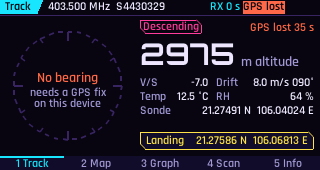
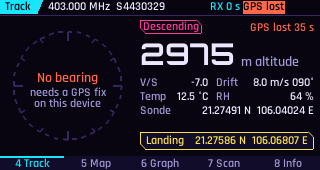
feat(keys): hold an arrow key to keep tuning; arrow glyphs in the hints
- a held arrow repeats after 0.4 s, 12 times a second, generated by the app
  (the keypad driver may not auto-repeat); repeats only tune the spectrum
- the spectrum hints draw arrow keys instead of L/R and U/D
- the demo band overview stays up with its cursor, like the real sweep
- sc_render links keys.c again (the Esc countdown needs it); screenshots
  regenerated, map shots kept (they need preloaded tiles)

Claude-Session: https://claude.ai/code/session_01NC5LhUc5V3FGkxE6anuYHf

diff --git a/tests/test_core.c b/tests/test_core.c
@@ -1,5 +1,8 @@
 #define _GNU_SOURCE
 #include "../src/sc.h"
+#include "../src/ui.h"
+#include <fcntl.h>
+#include <linux/input.h>
 #include <math.h>
 #include <signal.h>
 #include <sys/prctl.h>
@@ -315,6 +318,42 @@ static void t_dsp(void)
     for (off = 0, nb = 0; off < sizeof iq; off += 38)
         nb += ddc_process(&d2, iq + off, off + 38 <= sizeof iq ? 38 : sizeof iq - off, b + 2 * nb);
     CHECK(nb == na && !memcmp(a, b, na * 2 * sizeof a[0]));
+}
+
+/* Held arrow keys repeat (after 0.4 s, every 0.08 s) until released; other keys act once. */
+static void t_keys(void)
+{
+    int p[2], k, n = 0;
+    double t0;
+    struct input_event ev;
+    CHECK(pipe(p) == 0);
+    fcntl(p[0], F_SETFL, O_NONBLOCK);
+    memset(&ev, 0, sizeof ev);
+#define KEV(c, v) (ev.type = EV_KEY, ev.code = (c), ev.value = (v), write(p[1], &ev, sizeof ev) == (ssize_t)sizeof ev)
+    CHECK(KEV(KEY_RIGHT, 1));
+    CHECK(keys_read(p[0]) == K_RIGHT);
+    CHECK(keys_read(p[0]) == 0); /* no repeat before the delay */
+    t0 = sc_now();
+    while (sc_now() - t0 < 1.0) {
+        if ((k = keys_read(p[0])) != 0) {
+            CHECK(k == (K_RIGHT | K_REPEAT));
+            n++;
+        }
+        usleep(5000);
+    }
+    CHECK(n >= 6 && n <= 9); /* (1.0 - 0.4) / 0.08 = 7.5 */
+    CHECK(KEV(KEY_RIGHT, 2)); /* the kernel's own auto-repeat is ignored */
+    CHECK(KEV(KEY_RIGHT, 0));
+    CHECK(keys_read(p[0]) == 0);
+    usleep(200000);
+    CHECK(keys_read(p[0]) == 0); /* released: no more repeats */
+    CHECK(KEV(KEY_S, 1));
+    CHECK(keys_read(p[0]) == 's');
+    usleep(500000);
+    CHECK(keys_read(p[0]) == 0);
+#undef KEV
+    close(p[0]);
+    close(p[1]);
 }
 
 /* Radio audio: FM at the DDC's +12 kHz comes out as its modulating tone; an empty channel is squelched. */
@@ -763,6 +802,7 @@ int main(int argc, char **argv)
     t_ring();
     t_dsp();
     t_fm();
+    t_keys();
     t_frames();
     t_feed();
     t_track();

diff --git a/src/ui.c b/src/ui.c
@@ -768,10 +768,24 @@ static void p_flight(void)
 }
 
 /* ---------------- 7 Scan ---------------- */
+/* Arrow key glyph centred on (x, y), the fonts have none: dir 0 left, 1 right, 2 up, 3 down. */
+static void key_arrow(int x, int y, int dir, uint32_t col)
+{
+    static const int dx[] = {-1, 1, 0, 0}, dy[] = {0, 0, -1, 1};
+    double tx = x + 4 * dx[dir], ty = y + 4 * dy[dir]; /* tip */
+    ln(x - 4 * dx[dir], y - 4 * dy[dir], tx, ty, col, 1);
+    ln(tx, ty, tx - 3 * dx[dir] - 3 * dy[dir], ty - 3 * dy[dir] + 3 * dx[dir], col, 1);
+    ln(tx, ty, tx - 3 * dx[dir] + 3 * dy[dir], ty - 3 * dy[dir] - 3 * dx[dir], col, 1);
+}
+
 static void scan_hints(const char *third, const char *fourth)
 {
-    txt(6, 140, 80, F_S, C_DIM, AL_L, "L/R  10 kHz");
-    txt(88, 140, 90, F_S, C_DIM, AL_L, "U/D  100 kHz");
+    key_arrow(10, 147, 0, C_DIM);
+    key_arrow(23, 147, 1, C_DIM);
+    txt(32, 140, 60, F_S, C_DIM, AL_L, "10 kHz");
+    key_arrow(92, 147, 2, C_DIM);
+    key_arrow(103, 147, 3, C_DIM);
+    txt(112, 140, 60, F_S, C_DIM, AL_L, "100 kHz");
     txt(176, 140, 80, F_S, C_DIM, AL_L, "%s", third);
     txt(254, 140, 60, F_S, C_DIM, AL_R, "%s", fourth);
 }
@@ -1100,6 +1114,10 @@ static long tune_step(int k)
 
 void ui_key(int k)
 {
+    if (k & K_REPEAT) { /* a held arrow keeps tuning on the spectrum; elsewhere it acts once */
+        if (page != PG_SCAN || entry || A->burst_alert) return;
+        k &= ~K_REPEAT;
+    }
     if (!A->sdr_ok) { /* blocking error screen */
         if (k == 'q') quit = 1;
     } else if (A->burst_alert) { /* alert overlay takes Enter / Esc only */

diff --git a/src/keys.c b/src/keys.c
@@ -52,6 +52,13 @@ static int xlate(int c)
 }
 
 static double esc_down; /* monotonic time Esc went down, 0 while it is up */
+/* Held arrow key, repeated by the app itself: the keypad driver may not auto-repeat, and the delay and rate
+ * are kept below the tuner's retune time (~33 ms over I2C) so tuning never falls behind the key. */
+#define REPEAT_DELAY_S 0.4
+#define REPEAT_EVERY_S 0.08
+static int held;          /* K_* of the arrow held down, 0 = none */
+static unsigned short held_code;
+static double held_next;  /* next repeat */
 
 static double mono_s(void)
 {
@@ -71,10 +78,20 @@ int keys_read(int fd)
     if (fd < 0) return 0;
     while (read(fd, &ev, sizeof ev) == (ssize_t)sizeof ev) {
         if (ev.type == EV_KEY && ev.code == KEY_ESC && ev.value != 2) esc_down = ev.value ? mono_s() : 0;
-        if (ev.type == EV_KEY && ev.value == 1) { /* press only, no auto-repeat */
+        if (ev.type == EV_KEY && ev.value == 0 && ev.code == held_code) held = 0;
+        if (ev.type == EV_KEY && ev.value == 1) { /* press only; the kernel's auto-repeat is ignored */
             int k = xlate(ev.code);
+            if (k == K_UP || k == K_DOWN || k == K_LEFT || k == K_RIGHT) {
+                held = k;
+                held_code = ev.code;
+                held_next = mono_s() + REPEAT_DELAY_S;
+            }
             if (k) return k;
         }
+    }
+    if (held && mono_s() >= held_next) {
+        held_next = mono_s() + REPEAT_EVERY_S;
+        return held | K_REPEAT;
     }
     return 0;
 }

diff --git a/src/ui.h b/src/ui.h
@@ -4,13 +4,14 @@
 #include "sc.h"
 
 enum { K_UP = 256, K_DOWN, K_LEFT, K_RIGHT, K_ENTER, K_ESC, K_BKSP };
+#define K_REPEAT 0x1000 /* or-ed into an arrow key repeated while it is held */
 
 void ui_init(app_t *a);
 void ui_key(int key);      /* ASCII (lower case) or K_* */
 int ui_should_quit(void);
 
 int keys_open(const char *dev); /* "" = auto-detect; returns fd or -1 */
-int keys_read(int fd);          /* next key press, 0 = none */
+int keys_read(int fd);          /* next key press or held-arrow repeat, 0 = none */
 double keys_esc_held_s(void);   /* seconds Esc has been held down, 0 while it is up */
 #define ESC_QUIT_S 3.0          /* holding Esc this long quits the app */
 #endif

diff --git a/src/demo.c b/src/demo.c
@@ -98,8 +98,7 @@ static void demo_scan(app_t *a)
         s->db[i] = (float)db;
         s->ok[i] = 1;
     }
-    a->state = ST_IDLE;
-    snprintf(a->status, sizeof a->status, "scan done");
+    a->t_restart = sc_now() + 3600.0; /* the simulated band stays on screen, like the continuous sweep */
 }
 
 void demo_advance(app_t *a, double virtual_seconds, double now)

diff --git a/tools/render.c b/tools/render.c
@@ -102,7 +102,8 @@ int main(int argc, char **argv)
     shot("06_freq");
     ui_key(K_ESC);
     ui_key(K_RIGHT);
-    ui_key(K_ENTER); /* tune 403.500 -> Track */
+    ui_key(K_ENTER); /* tune the cursor (403.000) -> decode */
+    ui_key('4');
     shot("01_track_waiting");
 
     while (!app.burst_alert && app.demo.tv < 9000) demo_advance(&app, 5, now);

diff --git a/README.vi.md b/README.vi.md
@@ -67,7 +67,7 @@ hoặc dongle đang bị chương trình khác giữ, lý do hiện trên dòng 
 | `4` Track | La bàn HUD, khoảng cách, bearing, elevation, điểm rơi dự đoán; số hiệu, frame và pin của sonde khi GPS của nó chưa fix |
 | `5` Map | Tile, vị trí máy, sonde, vệt bay, điểm rơi. `Up/Down` zoom, `C` đổi chế độ bám (both / device / sonde). Khi chưa có vị trí nào: căn giữa theo `map_lat` / `map_lon` |
 | `6` Graph | `Left/Right` đổi trang: Skew-T log-P, độ cao + tốc độ đứng theo thời gian |
-| `7` Scan | Phổ kiểu app SDR, kèm audio của tần số đang thu: `Left/Right` ±10 kHz, `Up/Down` ±100 kHz, `Enter` để giải mã tại đó. `S` tổng quan dải: cùng các phím di chuyển con trỏ, `Enter` để nghe tại đó |
+| `7` Scan | Phổ kiểu app SDR, kèm audio của tần số đang thu: `Left/Right` ±10 kHz, `Up/Down` ±100 kHz, `Enter` để giải mã tại đó. `S` tổng quan dải: cùng các phím di chuyển con trỏ, `Enter` để nghe tại đó. Giữ phím mũi tên thì tần số tự chạy (sau 0,4 s, 12 bước mỗi giây) |
 | `8` Info | Sonde, thu nhận, thiết bị, một cặp tọa độ đích |
 | `F` | Nhập tần số (kHz) |
 | `M` | Tắt / bật tiếng beeper và audio radio |
@@ -235,11 +235,11 @@ màu so với màu nền chiếm đa số; cần chỉnh lại nếu style tile 
 
 ## Trạng thái kiểm thử
 
-`tests/test_core.c`: 4227 phép kiểm đạt trên Debian 13 arm64 (`-Wall -Wextra -Werror`). Một `librtlsdr` giả
+`tests/test_core.c`: 4247 phép kiểm đạt trên Debian 13 arm64 (`-Wall -Wextra -Werror`). Một `librtlsdr` giả
 (`tests/fake_rtlsdr.c`, phát sóng mang 403,000 MHz ở bất kỳ tần số nào đang đặt) cho phép chạy trọn quét và giải mã
 mà không cần dongle. Phạm vi: geodesy, ISA, dew point, dự đoán
 điểm rơi, parser JSON rs41mod (kể cả một frame thật chưa có fix) và gpsd, heading, ô phổ và giữ đỉnh, ring IQ, FFT,
-bộ hạ tần (sonde rơi đúng +12 kHz, tần số ảnh yếu hơn ≥ 20 dB, chia mẩu cho kết quả giống từng bit), audio FM (khôi phục đúng tone, kênh trống bị squelch), chuyển nghe → giải mã, ghi stdin, thu
+bộ hạ tần (sonde rơi đúng +12 kHz, tần số ảnh yếu hơn ≥ 20 dB, chia mẩu cho kết quả giống từng bit), audio FM (khôi phục đúng tone, kênh trống bị squelch), chuyển nghe → giải mã, lặp phím khi giữ, ghi stdin, thu
 dọn process group, lịch sử bay, tile, vòng đời pipeline con.
 
 Trên CardputerZero (Debian 13, RTL-SDR Blog V4, sonde Y0532351 ở 403,000 MHz):

diff --git a/README.md b/README.md
@@ -67,7 +67,7 @@ If `librtlsdr0` is missing or the dongle is busy, the reason shows on the status
 | `4` Track | HUD compass, distance, bearing, elevation, predicted landing point; sonde serial, frame and battery while its GPS has no fix |
 | `5` Map | Tiles, device position, sonde, flight track, landing point. `Up/Down` zoom, `C` cycles follow mode (both / device / sonde). With no position yet: centred on `map_lat` / `map_lon` |
 | `6` Graph | `Left/Right` switch page: Skew-T log-P, altitude + vertical speed over time |
-| `7` Scan | Spectrum, like an SDR app, with the tuned frequency's audio: `Left/Right` ±10 kHz, `Up/Down` ±100 kHz, `Enter` decode here. `S` band overview: the same keys move a cursor, `Enter` listens there |
+| `7` Scan | Spectrum, like an SDR app, with the tuned frequency's audio: `Left/Right` ±10 kHz, `Up/Down` ±100 kHz, `Enter` decode here. `S` band overview: the same keys move a cursor, `Enter` listens there. Holding an arrow key keeps tuning (after 0.4 s, 12 steps a second) |
 | `8` Info | Sonde, reception, device, one pair of target coordinates |
 | `F` | Enter frequency (kHz) |
 | `M` | Mute / unmute beeper and radio audio |
@@ -236,12 +236,12 @@ distance from the dominant background color; it needs tuning if the tile style d
 
 ## Test status
 
-`tests/test_core.c`: 4227 checks pass on Debian 13 arm64 (`-Wall -Wextra -Werror`). A fake `librtlsdr`
+`tests/test_core.c`: 4247 checks pass on Debian 13 arm64 (`-Wall -Wextra -Werror`). A fake `librtlsdr`
 (`tests/fake_rtlsdr.c`, a 403.000 MHz carrier wherever it is tuned) runs scanning and decoding end to end without a
 dongle. Covered: geodesy, ISA,
 dew point, landing prediction, rs41mod JSON (including a real no-fix frame) and gpsd parsers, heading, spectrum
 cells and peak hold, IQ ring, FFT, decoder front end (sonde lands at +12 kHz, images ≥ 20 dB down, chunking
-bit-exact), FM audio (tone recovered, empty channel squelched), listen → decode switching, stdin feeding, process-group reaping, flight history, tiles, child pipeline lifecycle.
+bit-exact), FM audio (tone recovered, empty channel squelched), listen → decode switching, held-key repeat, stdin feeding, process-group reaping, flight history, tiles, child pipeline lifecycle.
 
 On a CardputerZero (Debian 13, RTL-SDR Blog V4, sonde Y0532351 at 403.000 MHz):
 
